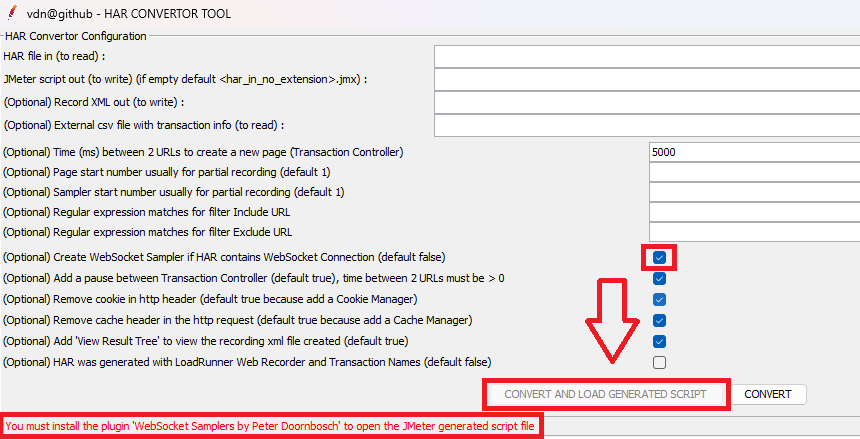
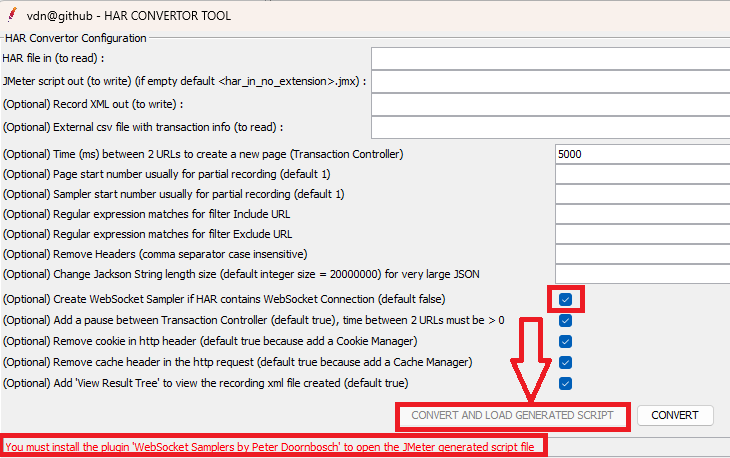
Change GUI images, add new parameter jacksonParserStringMaxField

Changed region(s): [[0.0, 0.2961, 1.0, 1.0], [0.0, 0.0, 1.0, 0.2961]]

diff --git a/src/main/java/io/github/vdaburon/jmeterplugins/har/gui/HarConvertorGui.java b/src/main/java/io/github/vdaburon/jmeterplugins/har/gui/HarConvertorGui.java
@@ -75,13 +75,13 @@ public class HarConvertorGui extends AbstractAction implements
     private JTextField regexFilterIncludeField;
     private JTextField regexFilterExcludeField;
     private JTextField removeHeadersField;
+    private JTextField jacksonParserStringMaxField;
     private JButton fileJmxOutFileButton;
     private JButton fileRecordOutFileButton;
     private JButton externalFileInfoInButton;
     private JCheckBox isAddPauseCheckbox;
     private JCheckBox isRemoveCookieCheckbox;
     private JCheckBox isRemoveCacheRequestHeaderCheckbox;
-    private JCheckBox isUseLrwrTransactionNameCheckbox;
     private JCheckBox isAddResultTreeRecordCheckbox;
     private JCheckBox isWebSocketPDoornboschCheckbox;
 
@@ -188,7 +188,8 @@ public class HarConvertorGui extends AbstractAction implements
             String regexFilterInclude= regexFilterIncludeField.getText();
             String regexFilterExclude= regexFilterExcludeField.getText();
             String removeHeaders = removeHeadersField.getText();
-            
+            String jacksonParserStringMax = jacksonParserStringMaxField.getText();
+
             if (fileJmxOut.trim().isEmpty()) {
             	fileJmxOut = fileHarIn.substring(0,fileHarIn.lastIndexOf(".")) + ".jmx";
             }
@@ -240,17 +241,26 @@ public class HarConvertorGui extends AbstractAction implements
                 samplerStartNumber  = 1;
             }
 
+            int iJacksonParserStringMax = HarForJMeter.K_JACKSON_PARSER_STRING_MAX_DEFAULT;
+            if (!jacksonParserStringMax.isEmpty()) {
+                try {
+                    iJacksonParserStringMax = Integer.parseInt(jacksonParserStringMax);
+                } catch (Exception ex) {
+                    log.warn("Error parsing int parameter " + ", value = " + jacksonParserStringMax + ", set to " + HarForJMeter.K_JACKSON_PARSER_STRING_MAX_DEFAULT + " Default value");
+                    iJacksonParserStringMax = HarForJMeter.K_JACKSON_PARSER_STRING_MAX_DEFAULT;
+                }
+            }
+            if (iJacksonParserStringMax <= 0) {
+                iJacksonParserStringMax  = HarForJMeter.K_JACKSON_PARSER_STRING_MAX_DEFAULT;
+            }
+            if (iJacksonParserStringMax != HarForJMeter.K_JACKSON_PARSER_STRING_MAX_DEFAULT && iJacksonParserStringMax > 1024) {
+                log.info("Set " + HarForJMeter.K_JACKSON_PARSER_STRING_MAX + "=<" + iJacksonParserStringMax + ">");
+            }
+
             boolean isRemoveCookieHeader = isRemoveCookieCheckbox.isSelected();
             boolean isRemoveCacheRequestHeader = isRemoveCacheRequestHeaderCheckbox.isSelected();
             boolean isAddResultTreeRecord = isAddResultTreeRecordCheckbox.isSelected();
-            boolean isUseLrwrTransactionName = isUseLrwrTransactionNameCheckbox.isSelected();
             boolean isWebSocketPDoornbosch = isWebSocketPDoornboschCheckbox.isSelected();
-
-
-            String lrwr_info = "";
-            if (isUseLrwrTransactionName) {
-                lrwr_info = HarForJMeter.K_LRWR_USE_TRANSACTION_NAME;
-            }
 
             try {
             	btConvert.setEnabled(false);
@@ -267,15 +277,15 @@ public class HarConvertorGui extends AbstractAction implements
                 log.info("regexFilterInclude=<" + regexFilterInclude + ">");
                 log.info("regexFilterExclude=<" + regexFilterExclude + ">");
                 log.info("removeHeaders=<" + removeHeaders + ">");
+                log.info("jacksonParserStringMax=<" + iJacksonParserStringMax + ">");
                 log.info("isRemoveCookieHeader=<" + isRemoveCookieHeader + ">");
                 log.info("samplerStartNumber=<" + samplerStartNumber + ">");
                 log.info("samplerStartNumber=<" + samplerStartNumber + ">");
-                log.info("lrwr_info=<" + lrwr_info + ">");
                 log.info("externalFileInfoIn=<" + externalFileInfoIn + ">");
                 log.info("****************************************");
 
-                HarForJMeter.generateJmxAndRecord(fileHarIn, fileJmxOut,createNewTransactionAfterRequestMs,isAddPause, isRemoveCookieHeader, isRemoveCacheRequestHeader,
-                                                regexFilterInclude, regexFilterExclude, recordXmlOut, pageStartNumber, samplerStartNumber, lrwr_info, externalFileInfoIn,
+                HarForJMeter.generateJmxAndRecord(fileHarIn, iJacksonParserStringMax, fileJmxOut,createNewTransactionAfterRequestMs,isAddPause, isRemoveCookieHeader, isRemoveCacheRequestHeader,
+                                                regexFilterInclude, regexFilterExclude, recordXmlOut, pageStartNumber, samplerStartNumber, externalFileInfoIn,
                                                 isAddResultTreeRecord, isWebSocketPDoornbosch,removeHeaders);
 
                 log.info("After HarForJMeter.generateJmxAndRecord");
@@ -294,6 +304,7 @@ public class HarConvertorGui extends AbstractAction implements
                 }
              } catch (Exception e) {
                 e.printStackTrace();
+                log.warn("Tool HAR Convertor Finished KO, exception = " + e);
                 except = e;
                 btConvert.setEnabled(true);
                 btConvertAndLoad.setEnabled(true);
@@ -392,6 +403,9 @@ public class HarConvertorGui extends AbstractAction implements
         JLabel samplerStartNumberLabel = new JLabel("(Optional) Sampler start number usually for partial recording (default 1)");
         samplerStartNumberTextField = new JTextField("", 80);
 
+        JLabel jacksonParserStringMaxLabel = new JLabel("(Optional) Change Jackson String length size (default integer size = 20000000) for very large JSON");
+        jacksonParserStringMaxField = new JTextField("", 80);
+
         panel.add(pauseBetweenUrlLabel);
         panel.add(pauseBetweenUrlTextField);
 
@@ -409,6 +423,9 @@ public class HarConvertorGui extends AbstractAction implements
 
         panel.add(removeHeadersFieldLabel);
         panel.add(removeHeadersField);
+
+        panel.add(jacksonParserStringMaxLabel);
+        panel.add(jacksonParserStringMaxField);
 
         return panel;
     }
@@ -434,9 +451,6 @@ public class HarConvertorGui extends AbstractAction implements
         JLabel isAddResultTreeRecordLabel = new JLabel("(Optional) Add 'View Result Tree' to view the recording xml file created (default true)");
         isAddResultTreeRecordCheckbox= new JCheckBox("",true);
 
-        JLabel isUseLrwrTransactionNameLabel = new JLabel("(Optional) HAR was generated with LoadRunner Web Recorder and Transaction Names (default false)");
-        isUseLrwrTransactionNameCheckbox= new JCheckBox("",false);
-
         panel.add(isWebSocketPDoornboschLabel);
         panel.add(isWebSocketPDoornboschCheckbox);
 
@@ -451,9 +465,6 @@ public class HarConvertorGui extends AbstractAction implements
 
         panel.add(isAddResultTreeRecordLabel);
         panel.add(isAddResultTreeRecordCheckbox);
-
-        panel.add(isUseLrwrTransactionNameLabel);
-        panel.add(isUseLrwrTransactionNameCheckbox);
 
         return panel;
     }

diff --git a/README.md b/README.md
@@ -31,7 +31,6 @@ Parameters are :
 * record_out create the record xml file from the har file (could be open with the Listener View Results Tree) <br/>
   e.g. record_out = record.xml
 * add_result_tree_record, add a View Result Tree to view the Recording XML File Generated (default true), the record_out must be not empty
-* ws_with_pdoornbosch, create WebSocket Sampler if HAR contains WebSocket Connection (ws or wss) and WebSocket Exchange message (default false). Need this JMeter plugin "WebSocket Samplers by Peter Doornbosch" to open generated JMeter script.
 * external_file_infos, external csv file contains information about Timestamp, Transaction Name, date start or end. <br/>
     e.g. external_file_infos = myappli_transactions.csv
 * new_tc_pause time between 2 urls to create a new page (Transaction Controller) (default 5000 = jmeter property value : proxy.pause=5000) <br/>
@@ -46,11 +45,12 @@ Parameters are :
   * e.g. filter_exclude=https://notmysite.com/.*
   * or filter statics, filter_exclude=(?i).*\\.(bmp|css|js|gif|ico|jpe?g|png|swf|eot|otf|ttf|mp4|woff|woff2|svg)
 * remove_headers, remove a list of http headers (comma separator, case insensitive), e.g: <code>-remove_headers "User-Agent,Pragma,X-TOKEN"</code> 
+* jackson_parser_string_max, parameter to change default Jackson String length size (default empty, use the integer size value = 20000000, around 19MB)<br/>
+* ws_with_pdoornbosch, create WebSocket Sampler if HAR contains WebSocket Connection (ws or wss) and WebSocket Exchange message (default false). Need this JMeter plugin "WebSocket Samplers by Peter Doornbosch" to open generated JMeter script.
 * add_pause checkbox, add Flow Control Action Pause, parameter new_tc_pause must be > 0 (default true) <br/>
 * remove_cookie checkbox , remove header with cookie because add a Cookie Manager in the script (default true) <br/>
 * remove_cache_request checkbox, remove cache request header because add a Cache Manager in the script (default true) <br/>
-* har created with lrwr, the har file has been generated with LoadRunner Web Recorder Chrome extension and contains Transaction Name, expected values : true or false (default false = unchecked) <br/>
-
+* add_result_tree_record, add to the "Test Plan" a "HTTP(S) Test Script Recorder" and "View Results Tree" to load the record_out xml file
 
 Status, the status line contains the tool status or the tool result.
 
@@ -126,18 +126,6 @@ The BrowserUp Proxy **active** project is available at this url : <br/>
 
 Note : The BrowserMod Proxy tool is no more active (since september 2017) and it's recommended to migrate to BrowerUp proxy https://github.com/valfirst/browserup-proxy the "valfirst" GitHub username is important.
 
-### HAR created in Chrome Browser with the OpenText Professional Performance Engineering (LoadRunner) Web Recorder Chrome Extension
-This tool is compatible with Har file generated with the LoadRunner Web Recorder Chrome Extension.
-
-The main advantage is to declare **Transaction Names when recording** and navigate to the web site. This transactions will be Page Names (Transaction Controllers names) in the JMeter script.
-
-![Step to create script and record from HAR file from LoadRunner Web Recorder](doc/images/lrwr_chrome_extension_har_convertor_script_record.png)
-
-The OpenText Professional Performance Engineering (LoadRunner) Web Recorder Chrome Extension is available at this url : <br/>
-[Download the Recorder extension for Chrome : "HarGeneratorChrome"](https://marketplace.opentext.com/appdelivery/content/recorder-extension-for-chrome)
-
-You need to check to checkbox "HAR was generated with LoadRunner Web Recorder and Transaction Names" to indicate that is a HAR file generated with LoadRunner Web Recorder (lrwr), default false (unchecked).
-
 ## Websocket use the plugin "WebSocket Samplers by Peter Doornbosch"
 If your Har file contains WebSocket Connection and Messages, check the checkbox <code>ws_with_pdoornbosch</code> (set true), this tool will try to create Websocket Samplers in the JMeter script generated and the exchanges in the Recording XML file if you set the record xml file name.
 
@@ -178,42 +166,45 @@ C:\apache-jmeter\bin&gt;har-convertor-to-jmeter.cmd -help
 
 usage: io.github.vdaburon.jmeter.har.HarForJMeter [-add_pause &lt;add_pause&gt;] [-add_result_tree_record
        &lt;add_result_tree_record&gt;] [-external_file_infos &lt;external_file_infos&gt;] [-filter_exclude &lt;filter_exclude&gt;]
-       [-filter_include &lt;filter_include&gt;] -har_in &lt;har_in&gt; [-help] -jmx_out &lt;jmx_out&gt; [-new_tc_pause &lt;new_tc_pause&gt;]
-       [-page_start_number &lt;page_start_number&gt;] [-record_out &lt;record_out&gt;] [-remove_cache_request
-       &lt;remove_cache_request&gt;] [-remove_cookie &lt;remove_cookie&gt;] [-remove_headers &lt;remove_headers&gt;]
-       [-sampler_start_number &lt;sampler_start_number&gt;] [-use_lrwr_infos &lt;use_lrwr_infos&gt;] [-ws_with_pdoornbosch
-       &lt;ws_with_pdoornbosch&gt;]
+       [-filter_include &lt;filter_include&gt;] -har_in &lt;har_in&gt; [-help] [-jackson_parser_string_max
+       &lt;jackson_parser_string_max&gt;] -jmx_out &lt;jmx_out&gt; [-new_tc_pause &lt;new_tc_pause&gt;] [-page_start_number
+       &lt;page_start_number&gt;] [-record_out &lt;record_out&gt;] [-remove_cache_request &lt;remove_cache_request&gt;] [-remove_cookie
+       &lt;remove_cookie&gt;] [-remove_headers &lt;remove_headers&gt;] [-sampler_start_number &lt;sampler_start_number&gt;]
+       [-ws_with_pdoornbosch &lt;ws_with_pdoornbosch&gt;]
 io.github.vdaburon.jmeter.har.HarForJMeter
- -add_pause &lt;add_pause&gt;                             Optional boolean, add Flow Control Action Pause after Transaction
-                                                    Controller (default true)
- -add_result_tree_record &lt;add_result_tree_record&gt;   Optional boolean, add 'View Result Tree' to view the record.xml file
-                                                    created (default true), record_out must be not empty
- -external_file_infos &lt;external_file_infos&gt;         Optional, csv file contains external infos : timestamp transaction
-                                                    name and start or end
- -filter_exclude &lt;filter_exclude&gt;                   Optional, regular expression to exclude url
- -filter_include &lt;filter_include&gt;                   Optional, regular expression to include url
- -har_in &lt;har_in&gt;                                   Har file to read (e.g : my_file.har)
- -help                                              Help and show parameters
- -jmx_out &lt;jmx_out&gt;                                 JMeter file created to write (e.g : script.jmx)
- -new_tc_pause &lt;new_tc_pause&gt;                       Optional, create new Transaction Controller after request ms, same
-                                                    as jmeter property : proxy.pause, need to be &gt; 0 if set. Usefully
-                                                    for Har created by Firefox or Single Page Application (Angular,
-                                                    ReactJS, VuesJS ...)
- -page_start_number &lt;page_start_number&gt;             Optional, the start page number for partial recording (default 1)
- -record_out &lt;record_out&gt;                           Optional, file xml contains exchanges likes recorded by JMeter
- -remove_cache_request &lt;remove_cache_request&gt;       Optional boolean, remove cache header in the http request (default
-                                                    true because add a Cache Manager)
- -remove_cookie &lt;remove_cookie&gt;                     Optional boolean, remove cookie in http header (default true because
-                                                    add a Cookie Manager)
- -remove_headers &lt;remove_headers&gt;                   Remove a list of headers (comma separator, case insensitive),
-                                                    e.g:User-Agent,Pragma,X-TOKEN
- -sampler_start_number &lt;sampler_start_number&gt;       Optional, the start sampler number for partial recording (default 1)
- -use_lrwr_infos &lt;use_lrwr_infos&gt;                   Optional, the har file has been generated with LoadRunner Web
-                                                    Recorder and contains Transaction Name, expected value :
-                                                    'transaction_name' or don't add this parameter
- -ws_with_pdoornbosch &lt;ws_with_pdoornbosch&gt;         Optional boolean, Manage websocket messages with the JMeter plugin
-                                                    from Peter DOORNBOSH (default false), if true need the plugin from
-                                                    Peter DOORNBOSH to open the generated script
+ -add_pause &lt;add_pause&gt;                                   Optional boolean, add Flow Control Action Pause after
+                                                          Transaction Controller (default true)
+ -add_result_tree_record &lt;add_result_tree_record&gt;         Optional boolean, add 'View Result Tree' to view the
+                                                          record.xml file created (default true), record_out must be not
+                                                          empty
+ -external_file_infos &lt;external_file_infos&gt;               Optional, csv file contains external infos : timestamp
+                                                          transaction name and start or end
+ -filter_exclude &lt;filter_exclude&gt;                         Optional, regular expression to exclude url
+ -filter_include &lt;filter_include&gt;                         Optional, regular expression to include url
+ -har_in &lt;har_in&gt;                                         Har file to read (e.g : my_file.har)
+ -help                                                    Help and show parameters
+ -jackson_parser_string_max &lt;jackson_parser_string_max&gt;   Optional argument to increase (or decrease) the maximum
+                                                          allowed document string for the Jackson Parser library (int
+                                                          value), default is 20000000
+ -jmx_out &lt;jmx_out&gt;                                       JMeter file created to write (e.g : script.jmx)
+ -new_tc_pause &lt;new_tc_pause&gt;                             Optional, create new Transaction Controller after request ms,
+                                                          same as jmeter property : proxy.pause, need to be &gt; 0 if set.
+                                                          Usefully for Har created by Firefox or Single Page Application
+                                                          (Angular, ReactJS, VuesJS ...)
+ -page_start_number &lt;page_start_number&gt;                   Optional, the start page number for partial recording (default
+                                                          1)
+ -record_out &lt;record_out&gt;                                 Optional, file xml contains exchanges likes recorded by JMeter
+ -remove_cache_request &lt;remove_cache_request&gt;             Optional boolean, remove cache header in the http request
+                                                          (default true because add a Cache Manager)
+ -remove_cookie &lt;remove_cookie&gt;                           Optional boolean, remove cookie in http header (default true
+                                                          because add a Cookie Manager)
+ -remove_headers &lt;remove_headers&gt;                         Remove a list of headers (comma separator, case insensitive),
+                                                          e.g:User-Agent,Pragma,X-TOKEN
+ -sampler_start_number &lt;sampler_start_number&gt;             Optional, the start sampler number for partial recording
+                                                          (default 1)
+ -ws_with_pdoornbosch &lt;ws_with_pdoornbosch&gt;               Optional boolean, Manage websocket messages with the JMeter
+                                                          plugin from Peter DOORNBOSH (default false), if true need the
+                                                          plugin from Peter DOORNBOSH to open the generated script
 E.g : java -jar har-for-jmeter-&lt;version&gt;-jar-with-dependencies.jar -har_in myhar.har -jmx_out scriptout.jmx -record_out
 recording.xml -add_result_tree_record true -new_tc_pause 5000 -add_pause true -filter_include "https://mysite/.*"
 -filter_exclude "https://notmysite/*" -page_start_number 50 -sampler_start_number 250 -ws_with_pdoornbosch false
@@ -239,13 +230,17 @@ The maven groupId, artifactId and version, this plugin is in the **Maven Central
 ```xml
 <groupId>io.github.vdaburon</groupId>
 <artifactId>har-convertor-jmeter-plugin</artifactId>
-<version>8.0</version>
+<version>9.1</version>
 ```
 
 ## License
 Licensed under the Apache License, Version 2.0
 
 ## Versions
+Version 9.1 date 2026-02-04, Use new library har-to-jmeter-convertor 9.1 remove parameter use_lrwr_infos because the LoadRunner plugin HarGeneratorChrome for Chrome doesn't work with new Chrome security for plugins. Modify pom.xml to exclude jackson and commons-lang3 libraries. This plugin need Saxon-HE>=12.3 for better Performance.
+
+Version 9.0 date 2026-02-03, Use new library har-to-jmeter-convertor 9.0 add new parameter -jackson_parser_string_max to change default Jackson String length size (default integer size = 20000000).
+
 Version 8.0 date 2025-11-22, Use new library har-to-jmeter-convertor 8.0 add new parameter <code>-remove_headers</code> remove a list of http headers (comma separator, case insensitive), e.g: <code>-remove_headers "User-Agent,Pragma,X-TOKEN"</code>
 
 Version 7.1 date 2025-03-27, Use new library har-to-jmeter-convertor 7.1 remove request headers from HTTP/2, these headers start with ':' likes ":authority", ":method", ":path" or ":scheme" correct Issue #2. Don't create HttpSampler for url "data:".
